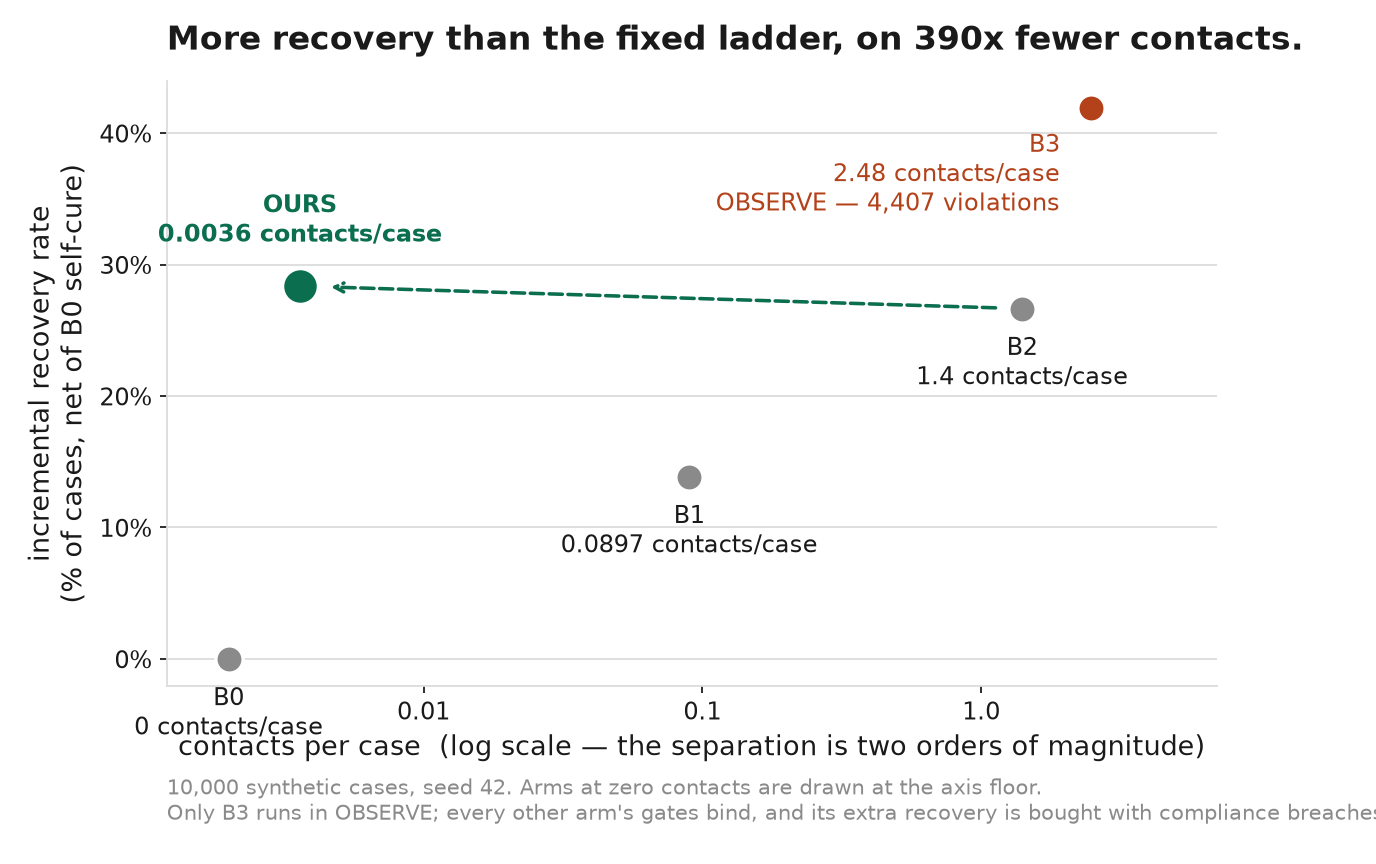
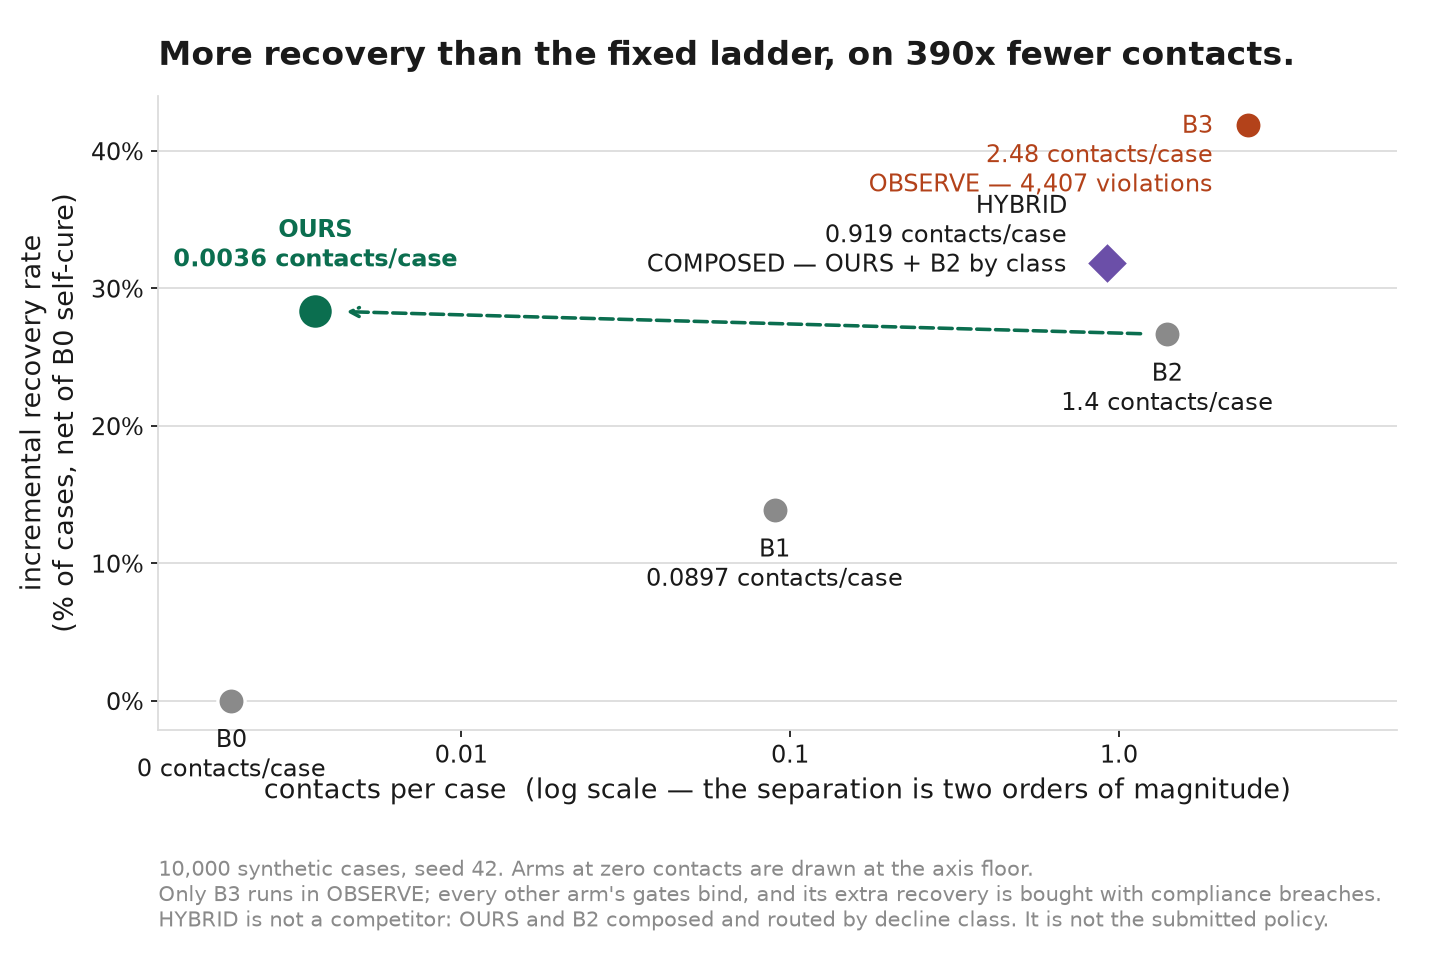
CP17.1: chart 1, and the price named
CP17 measured HYBRID and could not draw it — neither charts.py nor out/charts/
was on its allowlist, and the omission was not cosmetic. charts.py draws every
arm in metrics.json, so the moment HYBRID entered that file the committed PNG
went stale and CHT-1 failed. CHT-1 was doing its job: it exists to stop a chart
drifting from the numbers it draws. Green again.

HYBRID is marked the way B3 is marked OBSERVE: its own colour, a diamond, and a
COMPOSED label naming what it is made of. An unmarked point on a
recovery-against-contacts chart reads as a rival policy, and HYBRID is a
measurement of class-based routing that is explicitly not the submitted one. A
chart letting that pass unqualified would be doing the thing the per-class
breakdown exists to prevent.

The four crowded points are placed by region rather than by nudged offsets. Two
rounds of nudging produced a chart with B3's label written over the title and
HYBRID's running off the right edge; a placement map fixed it in one. The
caption moved to figure.text in a reserved margin, because at four lines it
collided with the x-label whatever axes offset it was given.

README Next Steps carries the measured version: 31.87% against 28.37%, Rs
227,318 more, 9,192 contacts against 36, 285 opt-outs against 1, 2.34x the cost
per rupee, 50 already-paid customers contacted against 1. Its SF-2 share of the
blind set is 5.4% against our 0.1% — not the ladder's volume swamping a residual
[…]

diff --git a/viewer/index.html b/viewer/index.html
@@ -251,6 +251,7 @@ function renderBatch(data) {
       row("Contacts per case", r => r.contacts_per_case_display),
       row("Dispatches (all actions)", r => r.dispatches_display),
       row("Cost per ₹100 recovered", r => r.cost_per_100_display),
+      row("Opt-outs induced", r => r.opt_outs_display),
       row("Silent failure rate", r => r.silent_failure_rate_pct),
       row("Reported minus reconciled", r => r.reported_minus_reconciled_display),
       row("Compliance violations", r => r.compliance_violations_display),

diff --git a/settle/eval/charts.py b/settle/eval/charts.py
@@ -58,6 +58,9 @@ INK: Final[str] = "#1a1a1a"
 OURS: Final[str] = "#0b6e4f"
 BASE: Final[str] = "#8a8a8a"
 WARN: Final[str] = "#b3421a"
+# HYBRID. Its own colour because it is its own kind of thing: not the policy, not
+# a baseline, and not a competitor — two arms already on this chart, composed.
+COMPOSED: Final[str] = "#6b4fa8"
 GRID: Final[str] = "#dcdcdc"
 
 DPI: Final[int] = 160
@@ -107,7 +110,7 @@ def recovery_vs_contacts(data: dict[str, Any], out: Path) -> Path:
     with their true value written on them, because log(0) has no position.
     """
     arms = data["arms"]
-    figure, ax = plt.subplots(figsize=(8.6, 5.4))
+    figure, ax = plt.subplots(figsize=(9.0, 6.0))
     _style(ax)
 
     ours = arms.get("OURS")
@@ -120,30 +123,54 @@ def recovery_vs_contacts(data: dict[str, Any], out: Path) -> Path:
 
     for name, x, y, true_contacts in points:
         is_ours = name == "OURS"
-        # B3 recovers more than OURS and the chart must not let that pass
-        # unqualified. It runs in OBSERVE: the gates are evaluated and their
-        # verdicts are not binding, so its recovery is bought with compliance
-        # breaches that no arm in ENFORCE is permitted. Drawn in the warning
-        # colour, with the violation count on the label.
+        # Two arms on this chart are not competitors, and an unmarked point
+        # invites exactly the misreading the marking prevents.
+        #
+        # B3 recovers more than OURS and runs in OBSERVE: the gates are
+        # evaluated and their verdicts do not bind, so its recovery is bought
+        # with compliance breaches no arm in ENFORCE is permitted.
+        #
+        # HYBRID recovers more than OURS and is a measurement of class-based
+        # routing — OURS on auth_abandoned, B2's ladder everywhere else. It is
+        # two points already on this chart, composed, and its cost is the
+        # contact volume the x-axis is about.
         violating = arms[name]["compliance_violations"] > 0
-        colour = OURS if is_ours else (WARN if violating else BASE)
+        composed = name == "HYBRID"
+        colour = (
+            OURS if is_ours
+            else COMPOSED if composed
+            else WARN if violating
+            else BASE
+        )
         ax.scatter(
             x, y,
-            s=260 if is_ours else 150,
+            s=260 if is_ours else 190 if composed else 150,
             color=colour,
             zorder=3, edgecolor="white", linewidth=1.5,
+            marker="D" if composed else "o",
         )
         label = f"{name}\n{true_contacts:.3g} contacts/case"
         if violating:
             label += f"\nOBSERVE — {arms[name]['compliance_violations']:,} violations"
-        ha = "center"
-        offset_x = 0
-        if name == "B3":
-            ha, offset_x = "right", -14
+        if composed:
+            label += "\nCOMPOSED — OURS + B2 by class"
+        # Placed by region rather than by nudging. The four crowded points sit
+        # in the top right, so B3's label goes down-left below the title and
+        # HYBRID's goes left at its own height into the empty middle;
+        # B2's drops below its point, where nothing else is. Three labels that
+        # each want the same 200 pixels is what an unplaced legend looks like.
+        placement = {
+            "B3": ("right", -16, -30),
+            "HYBRID": ("right", -18, -4),
+            "B2": ("center", 0, -34),
+        }
+        ha, offset_x, offset_y = placement.get(
+            name, ("center", 0, 20 if is_ours else -34)
+        )
         ax.annotate(
             label, (x, y),
             textcoords="offset points",
-            xytext=(offset_x, 20 if is_ours else -46 if violating else -34),
+            xytext=(offset_x, offset_y),
             ha=ha, fontsize=11,
             color=colour if (is_ours or violating) else INK,
             fontweight="bold" if is_ours else "normal",
@@ -182,15 +209,20 @@ def recovery_vs_contacts(data: dict[str, Any], out: Path) -> Path:
     ax.set_xticklabels(["0.01", "0.1", "1.0"])
     ax.set_xticks([], minor=True)
     meta = data["meta"]
-    ax.text(
-        0, -0.22,
+    # figure.text, not ax.text: the caption is four lines and belongs to the
+    # figure's reserved margin rather than to the axes, where it collided with
+    # the x-label whatever offset it was given.
+    figure.subplots_adjust(left=0.11, right=0.97, top=0.90, bottom=0.24)
+    figure.text(
+        0.11, 0.035,
         f"{meta['cases']:,} synthetic cases, seed {meta['seed']}. "
         "Arms at zero contacts are drawn at the axis floor.\n"
         "Only B3 runs in OBSERVE; every other arm's gates bind, and its extra "
-        "recovery is bought with compliance breaches.",
-        transform=ax.transAxes, fontsize=9.5, color=BASE,
+        "recovery is bought with compliance breaches.\n"
+        "HYBRID is not a competitor: OURS and B2 composed and routed by decline "
+        "class. It is not the submitted policy.",
+        fontsize=9.5, color=BASE,
     )
-    figure.tight_layout()
     figure.savefig(out, dpi=DPI, facecolor="white")
     plt.close(figure)
     return out

diff --git a/SPEC.md b/SPEC.md
@@ -1759,3 +1759,5 @@ Resolved:
 - 2026-09-04 — A141: §14.1 — the routing key is `classify(case.decline_code)`, a pure function of an `ObservedCase` field. There is no `decline_class` field on `ObservedCase` and the router never reads `CaseState`, so the routing decision is identical at tick 0 and tick 700 and a case belongs to one delegate for its whole life. That is what makes ARM-7's byte-identity possible: a router switching mid-case would produce a trajectory neither source arm ever visits.
 - 2026-09-04 — A142: §14.4 — `opt_outs_induced` is reported per arm. It was listed in the headline table since CP0 and nothing produced it; counted now from the ledger's `OPTED_OUT` reason code. It is the cost side of contact volume, and HYBRID is what made its absence conspicuous: 285 opt-outs against OURS's 1.
 - 2026-09-04 — A143: §14.1 — the HYBRID measurement, recorded because it answers a question a reader will ask. At 10,000 cases HYBRID recovers 31.87% against OURS's 28.37%, +3.50 points and ₹227,318. It costs 9,192 contacts against 36 — 255x — 285 opt-outs against 1, and 2.34x the cost per ₹100 recovered. Its per-class rates equal B2's on every ladder-routed class and OURS's on `auth_abandoned`, exactly, which is the composition being visible in the output rather than asserted. The restraint result does not survive routing: HYBRID's contact volume is 66% of the fixed ladder's.
+- 2026-09-04 — A144: §14.1 — HYBRID is marked on chart 1 the way B3 is: its own colour, a diamond marker, and a COMPOSED label naming what it is made of. An unmarked point invites the reading the marking exists to prevent — a measurement of class-based routing taken for a rival policy. The chart's four crowded points are placed by region rather than by nudged offsets, because three labels wanting the same 200 pixels is what an unplaced legend looks like.
+- 2026-09-04 — A145: Known Limitations — OURS forgoing 3.5 points of recovery is recorded as a choice with a measured price rather than as a weakness. A merchant valuing recovered rupees above customer contact should prefer HYBRID, and the table is the case for it. Our ordering is a product judgement the evidence does not force: 28.37% is the best number available *under a constraint we chose*, and the unconstrained figure is 31.87%.

diff --git a/KNOWN_LIMITATIONS.md b/KNOWN_LIMITATIONS.md
@@ -260,6 +260,36 @@ the robust part of the result, not the recovery gap. Second, we do not know
 where it settles: 10,000 is the largest batch we run, so we can say the margin
 shrank between our two sizes but not that it has converged.
 
+### OURS forgoes 3.5 points of recovery, deliberately
+
+This is a choice with a price, and the price is now measured rather than
+asserted.
+
+HYBRID — `auth_abandoned` to OURS, the fixed ladder everywhere else — recovers
+**31.87% against our 28.37%**. On a 10,000-case batch that is ₹227,318 we do not
+collect. We could ship it today; it composes two arms already in the repo and
+needs no new model, mechanism or parameter.
+
+We do not, because of what the 3.5 points cost:
+
+| | OURS | HYBRID |
+|---|---|---|
+| Contacts | 36 | 9,192 |
+| Opt-outs induced | 1 | 285 |
+| Cost per ₹100 recovered | ₹0.0892 | ₹0.2084 |
+| Customers already paid, contacted again | 1 | 50 |
+| SF-2 as a share of the blind set | 0.1% | 5.4% |
+
+**What it costs, and who should disagree with us.** A merchant who values
+recovered rupees above customer contact should prefer HYBRID, and the numbers
+above are the case for it rather than against it. Our ordering — restraint
+first — is a product judgement, not a result the evidence forces. It rests on
+holding that 285 opt-outs and 50 people chased after they had already paid are
+worth more than ₹227,318, and a merchant with different churn economics can
+reasonably weigh that the other way. What we will not do is present 28.37% as
+the best available number: it is the best number available *under a constraint
+we chose*, and the unconstrained figure is 31.87%.
+
 ### HYBRID measures a ceiling, not a policy we could ship
 
 CP17 routed `auth_abandoned` to OURS and everything else to B2's ladder. It

diff --git a/PLAN.md b/PLAN.md
@@ -429,3 +429,26 @@ against its pre-run copy field by field.
 
 `opt_outs_induced` was listed in §14.4 from CP0 and produced by nothing. HYBRID
 is what made the gap conspicuous, and it is counted now from the ledger.
+
+## CP17.1 — chart 1, and the price named
+
+Chart 1 marks HYBRID the way it marks B3: its own colour, a diamond, and a
+COMPOSED label naming what it is made of. CP17 could not do this — neither
+`charts.py` nor `out/charts/` was on its allowlist — and the omission was not
+cosmetic: `charts.py` draws every arm in `metrics.json`, so HYBRID entering that
+file made the committed PNG stale and CHT-1 failed. It is green again.
+
+The four crowded points are now placed by region rather than by nudged offsets.
+Three labels wanting the same 200 pixels is what an unplaced legend looks like,
+and two rounds of nudging produced a chart with the title overwritten before the
+placement map fixed it.
+
+Known Limitations gained the entry that matters most for how the result reads:
+OURS forgoes 3.5 points of recovery **by choice**, and the price is now measured
+rather than asserted. A merchant who values recovered rupees above customer
+contact should prefer HYBRID, and the table there is the case for it rather than
+against it. 28.37% is the best number available under a constraint we chose; the
+unconstrained figure is 31.87%.
+
+The viewer's batch table carries HYBRID marked COMPOSED, and gained an
+opt-outs-induced row — the number that makes the tradeoff legible at a glance.

diff --git a/README.md b/README.md
@@ -453,15 +453,21 @@ The five that would change how you read the numbers above:
 
 ## 8. Next steps
 
-The margin is concentrated in one decline class. We tested the obvious
+The margin is concentrated in one decline class, so we tested the obvious
 alternative: route auth_abandoned to our policy and the fixed ladder everywhere
-else. HYBRID recovers 31.87% against our 28.37%, at 0.9192 contacts per case
-against our 0.0036.
+else.
 
-It recovers more. It also contacts 255 times as many people, which is the thing
-we set out not to do. We are reporting the policy we built and measured, not the
-one this result implies — and we are reporting the alternative rather than
-leaving a reader to wonder whether we tried it.
+HYBRID recovers 31.87% against our 28.37% — ₹227,318 more. It makes 9,192
+contacts against our 36, induces 285 opt-outs against 1, costs 2.34x as much per
+rupee recovered, and contacts 50 customers who had already paid, against our 1.
+
+Its SF-2 share of the blind set is 5.4% against our 0.1%. That is not the
+ladder's contact volume swamping a residual restraint — it is restraint being
+absent on five of six classes.
+
+We are reporting the policy we built and measured, not the one this result
+implies. The tradeoff is now quantified rather than asserted: 3.5 points of
+recovery costs 255x the customer contact.
 
 | | OURS | HYBRID | B2 |
 |---|---|---|---|
